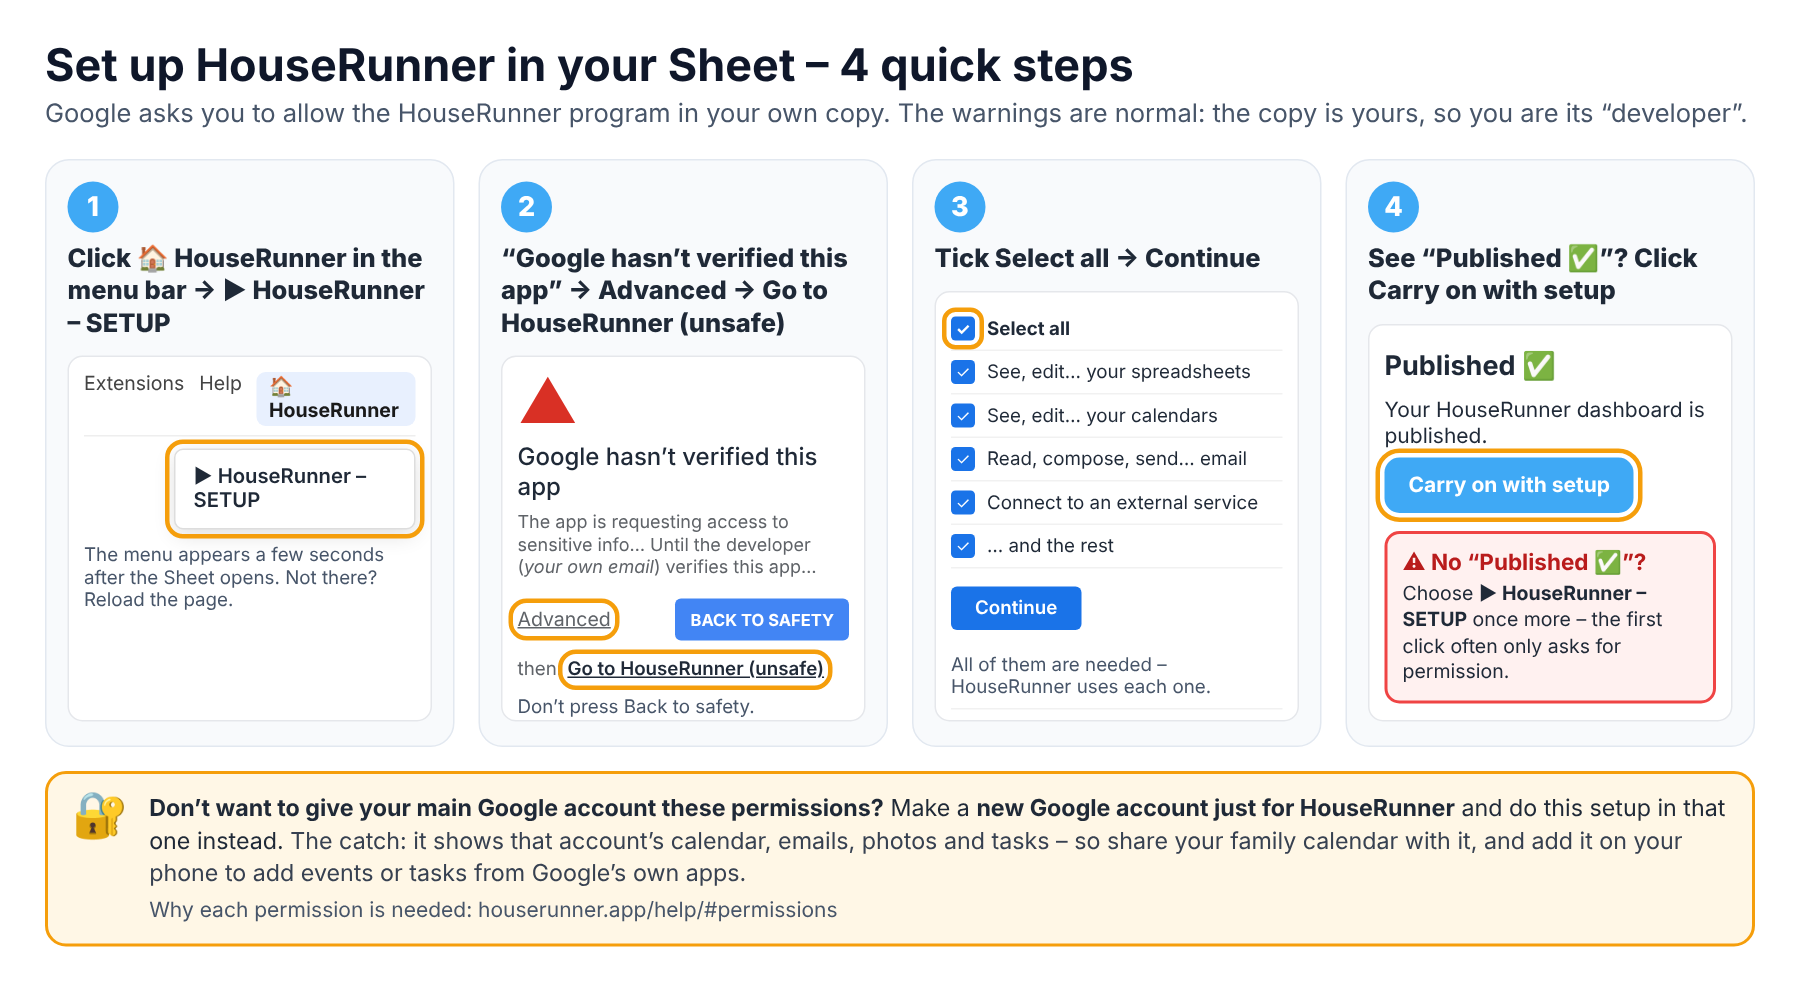
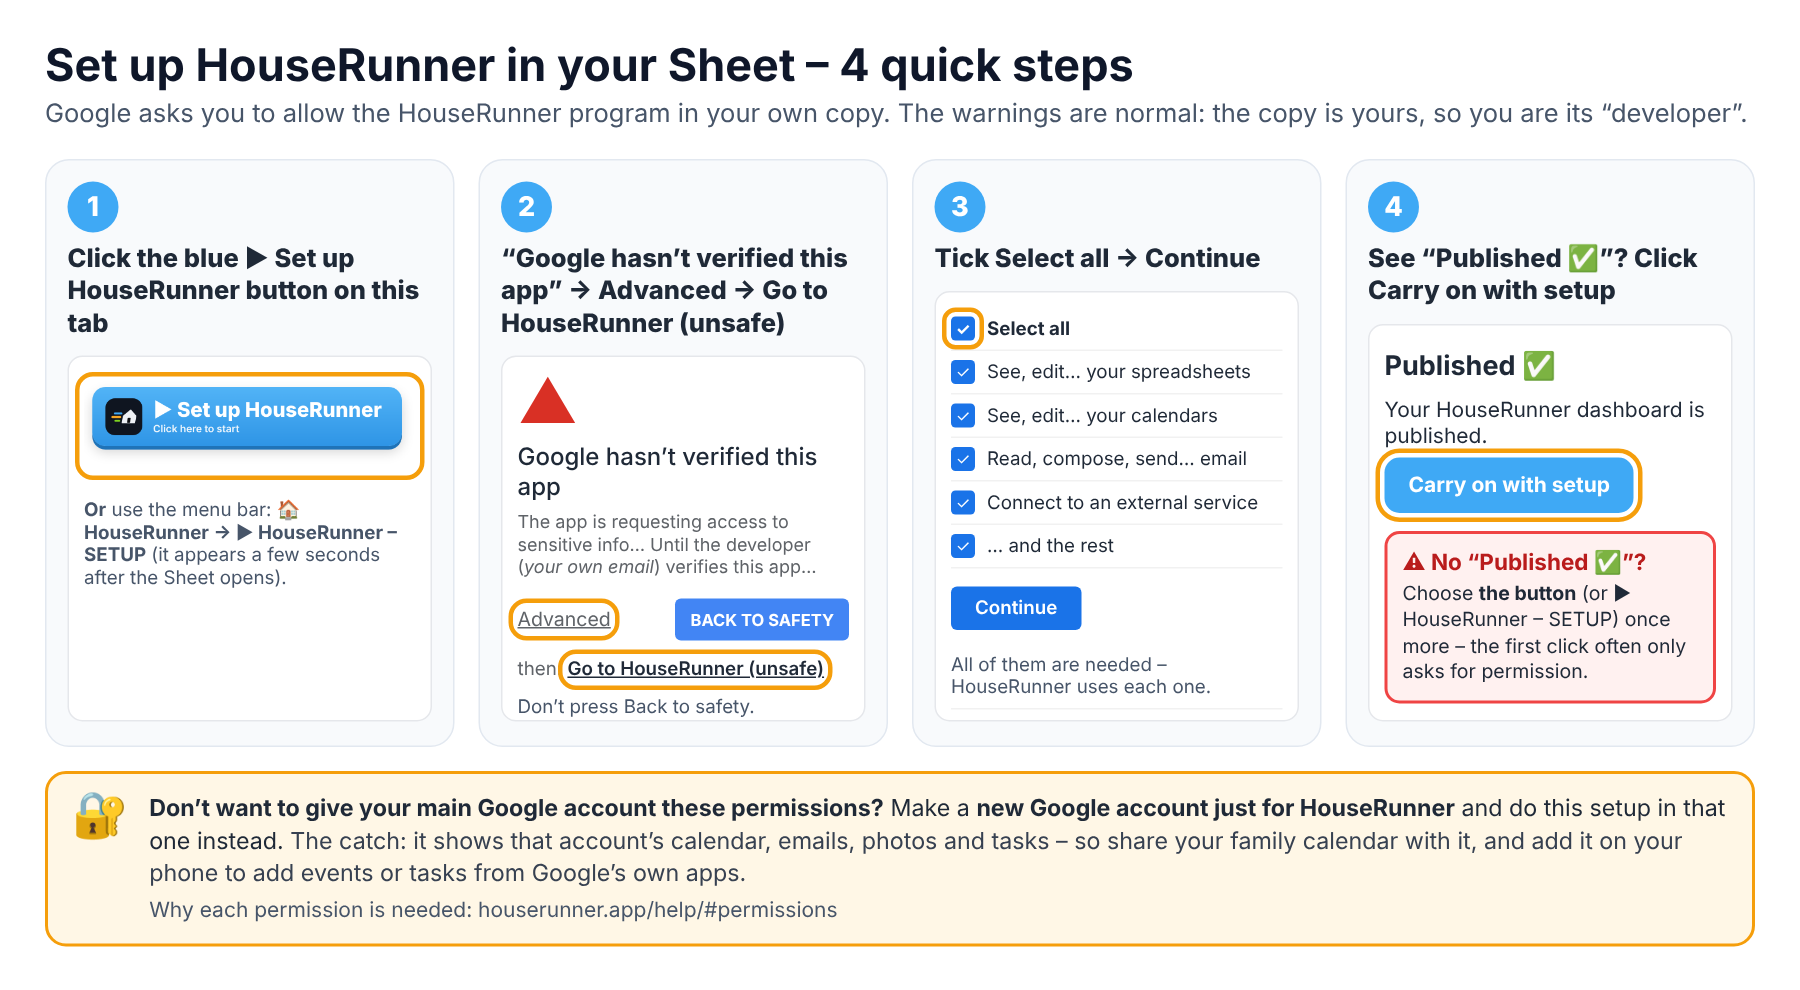
2026.11.258: setup button
Claude-Session: https://claude.ai/code/session_01R2kV4GW3UVFR51NzUKtdLQ

diff --git a/index.html b/index.html
@@ -24,11 +24,11 @@
         window.FD_DESK = true; window.FD_PHONE = !!phone;
     })();
     </script>
-    <link rel="stylesheet" href="shared/base.css?v=202611257">
-    <link rel="stylesheet" href="admin/admin.css?v=202611257">
-    <link rel="stylesheet" href="setup/desk.css?v=202611257">
-    <link rel="stylesheet" href="setup/editor.css?v=202611257">
-    <link rel="stylesheet" href="admin/phone.css?v=202611257">
+    <link rel="stylesheet" href="shared/base.css?v=202611258">
+    <link rel="stylesheet" href="admin/admin.css?v=202611258">
+    <link rel="stylesheet" href="setup/desk.css?v=202611258">
+    <link rel="stylesheet" href="setup/editor.css?v=202611258">
+    <link rel="stylesheet" href="admin/phone.css?v=202611258">
     <style>
 #landing { min-height: 100vh; }
 #landing .ld-wrap { max-width: 1100px; margin: 0 auto; padding: 30px 18px 50px; }
@@ -192,20 +192,20 @@
     </div></div>
     <!-- Connected: houserunner.app (computer) or Family Admin (phone) – the same app. -->
     <div id="app"></div>
-    <script src="shared/storecheck.js?v=202611257"></script>
-    <script src="shared/fd.js?v=202611257"></script>
-    <script src="dashboard/scripts/platform.js?v=202611257"></script>
-    <script src="shared/pair.js?v=202611257"></script>
-    <script src="shared/qrcode.js?v=202611257"></script>
-    <script src="shared/privacy.js?v=202611257"></script>
-    <script src="shared/countries.js?v=202611257"></script>
-    <script src="setup/config.js?v=202611257"></script>
-    <script src="help/topics.js?v=202611257"></script>
-    <script src="setup/editor.js?v=202611257"></script>
-    <script src="setup/calsetup.js?v=202611257"></script>
-    <script src="shared/icons.js?v=202611257"></script>
+    <script src="shared/storecheck.js?v=202611258"></script>
+    <script src="shared/fd.js?v=202611258"></script>
+    <script src="dashboard/scripts/platform.js?v=202611258"></script>
+    <script src="shared/pair.js?v=202611258"></script>
+    <script src="shared/qrcode.js?v=202611258"></script>
+    <script src="shared/privacy.js?v=202611258"></script>
+    <script src="shared/countries.js?v=202611258"></script>
+    <script src="setup/config.js?v=202611258"></script>
+    <script src="help/topics.js?v=202611258"></script>
+    <script src="setup/editor.js?v=202611258"></script>
+    <script src="setup/calsetup.js?v=202611258"></script>
+    <script src="shared/icons.js?v=202611258"></script>
     <!-- A phone gets Family Admin, written for the phone; a computer houserunner.app. -->
-    <script>document.write('<script src="admin/' + (window.FD_PHONE ? 'phone' : 'app') + '.js?v=202611257"><\/script>');</script>
+    <script>document.write('<script src="admin/' + (window.FD_PHONE ? 'phone' : 'app') + '.js?v=202611258"><\/script>');</script>
 <script>
  (function () {
    'use strict';

diff --git a/setup/guide/setup.js b/setup/guide/setup.js
@@ -229,11 +229,11 @@
                 (tpl ? '<div class="card big"><ol class="howto"><li>Click <a class="btn" target="_blank" rel="noopener" href="https://docs.google.com/spreadsheets/d/' + encodeURIComponent(tpl) + '/copy">Make my copy</a> ' +
                     '<span class="mute">(it opens in a new tab)</span>. If Google asks you to sign in, use the Google account you want the dashboard in – the one with the family calendar.</li>' +
                     '<li>Google shows <b>“Copy document?”</b> – click the blue <b>Make a copy</b> button. <span class="mute">(If it mentions “Apps Script files”, that’s right – they come too.)</span></li>' +
-                    '<li>Your new Sheet opens. Wait a few seconds for the <b>🏠 HouseRunner</b> menu along the top (next to <b>Help</b>), then click it → <b>▶ HouseRunner – SETUP</b>.</li>' +
+                    '<li>Your new Sheet opens on its <b>HOME</b> tab. Click the blue <b>▶ Set up HouseRunner</b> button there. <span class="mute">(Or use the menu along the top, next to <b>Help</b>: <b>🏠 HouseRunner → ▶ HouseRunner – SETUP</b> – it appears a few seconds after the Sheet opens.)</span></li>' +
                     '<li>Google asks for permission: click <b>Continue</b> and choose your account. Google then shows a red ⚠ <b>“Google hasn’t verified this app”</b> page, saying the developer – <b>your own email address</b> – hasn’t had it verified. ' +
                         'That’s normal: your copy is yours, so you are its “developer”. Don’t press the blue <b>Back to safety</b> button – click <b>Advanced</b> (small, bottom left) → <b>Go to HouseRunner (unsafe)</b>. ' +
                         'Google then lists what HouseRunner may do – click <b>Select all</b> (see the note on permissions below) → <b>Continue</b>.</li>' +
-                    '<li><div class="note bad"><b>⚠ No “Published ✅” message yet?</b> Then choose <b>🏠 HouseRunner → ▶ HouseRunner – SETUP</b> once more. ' +
+                    '<li><div class="note bad"><b>⚠ No “Published ✅” message yet?</b> Then click the <b>▶ Set up HouseRunner</b> button (or the menu) once more. ' +
                         '<span class="mute">Usually it’s needed: Google stops as soon as you’ve allowed it, so the first click only asks for permission and the second one does the work. ' +
                         'If it asks you to turn on one Google switch (the Apps Script API), follow its link, turn it on, and choose the menu once more.</span></div></li>' +
                     '<li>It says <b>“Published ✅”</b>. Click <b>Carry on with setup</b> – setup carries on in a new tab, already connected, showing <b>✅ Your Google Sheet is published and connected</b>. You can close the old tabs.</li></ol>' +

diff --git a/setup/guide/index.html b/setup/guide/index.html
@@ -6,8 +6,8 @@
     <title>HouseRunner Setup</title>
     <meta name="theme-color" content="#0c0e12">
     <link rel="icon" href="../../shared/brand/icon-192.png"><link rel="apple-touch-icon" href="../../shared/brand/apple-touch-icon.png">
-    <link rel="stylesheet" href="../editor.css?v=202611257">
-    <link rel="stylesheet" href="setup.css?v=202611257">
+    <link rel="stylesheet" href="../editor.css?v=202611258">
+    <link rel="stylesheet" href="setup.css?v=202611258">
 </head>
 <body>
     <header class="cfg-top"><a class="cfg-title hr-title" href="../../"><img src="../../shared/brand/mark.svg" alt="" class="hr-mini"><span>House<span class="hr-acc">Runner</span></span></a><a class="cfg-dash" href="../../dashboard/" target="_blank" rel="noopener">▶ Dashboard</a><a class="cfg-help" href="../../help/" target="_blank" rel="noopener">❓ Help</a></header>
@@ -29,8 +29,8 @@
     <script src="../../shared/countries.js"></script>
     <script src="../../shared/pair.js"></script>
     <script src="../../shared/qrcode.js"></script>
-    <script src="../calsetup.js?v=202611257"></script>
-    <script src="../../shared/storecheck.js?v=202611257"></script>
-    <script src="setup.js?v=202611257"></script>
+    <script src="../calsetup.js?v=202611258"></script>
+    <script src="../../shared/storecheck.js?v=202611258"></script>
+    <script src="setup.js?v=202611258"></script>
 </body>
 </html>

diff --git a/sw.js b/sw.js
@@ -1,6 +1,6 @@
 /* Keeps houserunner.app (the Configurator / Family Admin) available offline. Family data always comes live from Google.
  * The screen, the Family Calendar app and the licence pages look after themselves, so they're left alone here. */
-const CACHE = 'root-v110';
+const CACHE = 'root-v111';
 const FILES = ["./", "index.html", "manifest.webmanifest", "admin/app.js", "admin/phone.js", "admin/phone.css", "admin/admin.css", "admin/icons/icon-192.png", "setup/desk.css", "setup/editor.css", "setup/editor.js", "setup/calsetup.js", "setup/config.js",
   "help/topics.js", "shared/fd.js", "shared/head.js", "shared/storecheck.js", "shared/move.js", "shared/base.css", "shared/brand/mark.svg", "shared/privacy.js", "shared/countries.js", "shared/icons.js", "shared/pair.js", "shared/qrcode.js"];
 const OWN = /^\/(screen|dashboard|calendar|licencing|windows|downloads|Scripts)\//;

diff --git a/admin/sw.js b/admin/sw.js
@@ -1,5 +1,5 @@
 /* Keeps the app itself available offline. Calendar and points data always come live from Google. */
-const CACHE = 'admin-v259';
+const CACHE = 'admin-v260';
 const FILES = ["./", "index.html", "app.js", "admin.css", "manifest.webmanifest", "icons/icon-192.png", "../shared/fd.js", "../shared/storecheck.js", "../shared/move.js", "../shared/base.css", "../shared/brand/symbol.svg", "../shared/privacy.js", "../shared/countries.js", "../shared/pair.js", "../shared/qrcode.js"];
 self.addEventListener('install', e => { e.waitUntil(caches.open(CACHE).then(c => c.addAll(FILES)).then(() => self.skipWaiting())); });
 self.addEventListener('activate', e => { e.waitUntil(caches.keys().then(ks => Promise.all(ks.filter(k => k.startsWith('admin-') && k !== CACHE).map(k => caches.delete(k)))).then(() => self.clients.claim())); });

diff --git a/calendar/sw.js b/calendar/sw.js
@@ -1,5 +1,5 @@
 /* Keeps the app itself available offline. Calendar and points data always come live from Google. */
-const CACHE = 'calendar-v247';
+const CACHE = 'calendar-v248';
 const FILES = ["./", "index.html", "app.js", "calendar.css", "manifest.webmanifest", "icons/icon-192.png", "../shared/fd.js", "../shared/storecheck.js", "../shared/move.js", "../shared/base.css", "../shared/brand/symbol.svg", "../shared/pair.js", "../shared/qrcode.js"];
 self.addEventListener('install', e => { e.waitUntil(caches.open(CACHE).then(c => c.addAll(FILES)).then(() => self.skipWaiting())); });
 self.addEventListener('activate', e => { e.waitUntil(caches.keys().then(ks => Promise.all(ks.filter(k => k.startsWith('calendar-') && k !== CACHE).map(k => caches.delete(k)))).then(() => self.clients.claim())); });

diff --git a/shared/fd.js b/shared/fd.js
@@ -191,7 +191,7 @@
         clearConfig: function () { cfg = {}; try { localStorage.removeItem(KEY); } catch (e) { /* ignore */ } },
         parseSetup: parseSetup,
 
-        VERSION: '2026.11.257',     // the phone apps' version (same number as the screen's)
+        VERSION: '2026.11.258',     // the phone apps' version (same number as the screen's)
         get: function (action, params, timeout) {
             var q = 'action=' + encodeURIComponent(action) + '&code=' + encodeURIComponent(cfg.code) + '&t=' + Date.now();
             Object.keys(params || {}).forEach(function (k) { q += '&' + k + '=' + encodeURIComponent(params[k]); });

diff --git a/dashboard/scripts/notices.js b/dashboard/scripts/notices.js
@@ -6,7 +6,7 @@
  */
 (function () {
     'use strict';
-    var APP_VERSION = '2026.11.257';
+    var APP_VERSION = '2026.11.258';
     var SNOOZE_KEY = 'familyDashboard.updateSnooze', SCRIPT_KEY = 'familyDashboard.scriptNag';
     var latest = null, lastLayout = null, privacyOpen = false, lastTouch = Date.now(), updating = false;
     var IDLE_MS = 3 * 60000;
